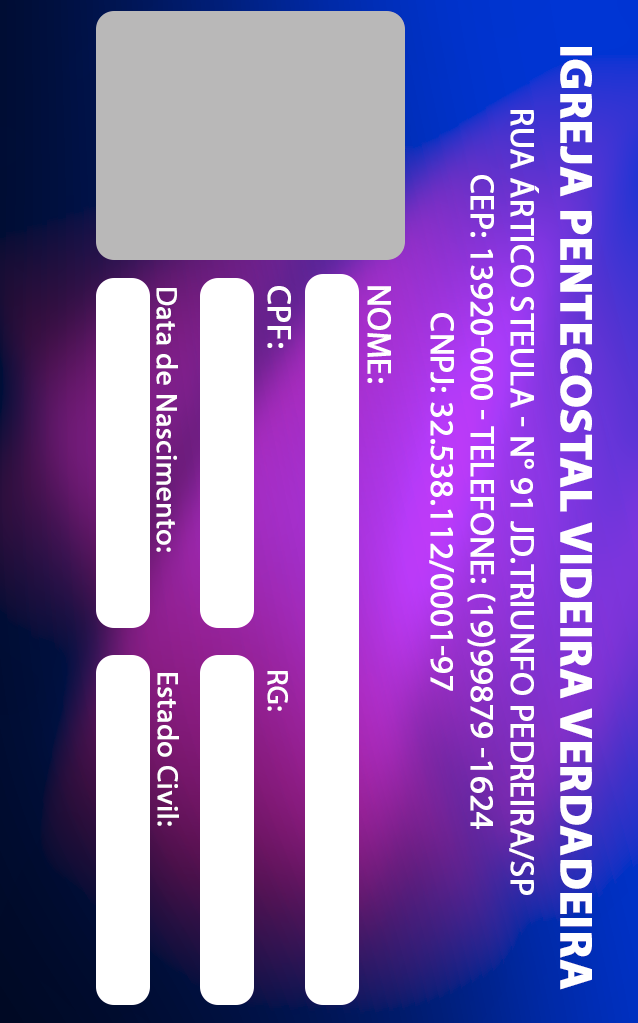
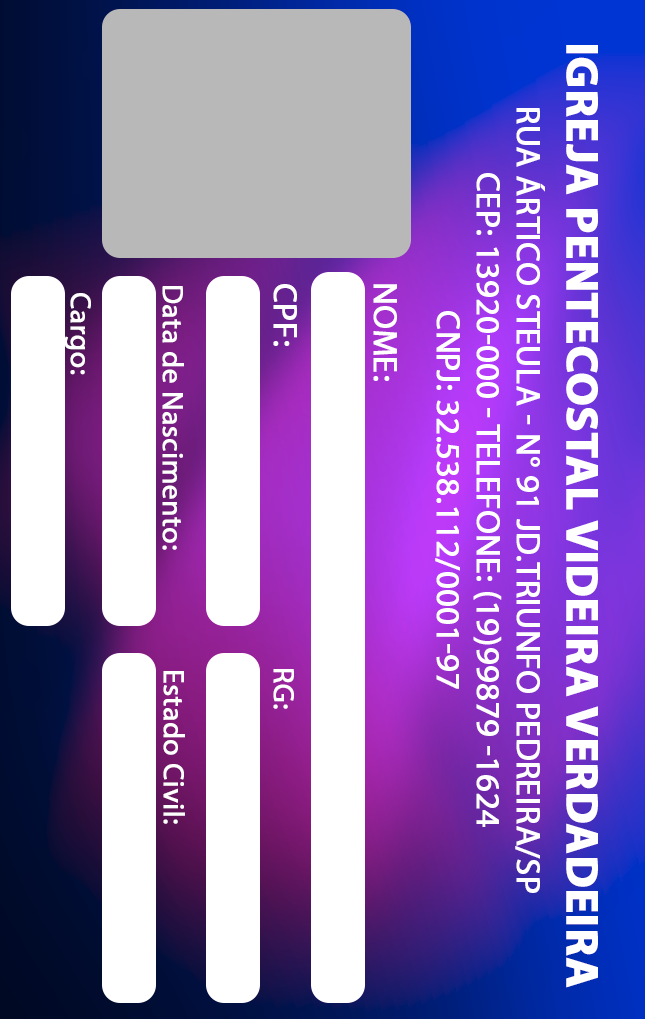
Fix Card

diff --git a/public/assets/css/cards/29-card_front.css b/public/assets/css/cards/29-card_front.css
@@ -73,6 +73,21 @@
   white-space: pre;
 }
 
+.element__tag6 {
+  position: absolute;
+  color: #000;
+  z-index: 2;
+  top: 192px;
+  left: -93px;
+  width: 210px;
+  text-align: left;
+  font-size: 13px;
+  font-family: Arial;
+  transform: rotate(90deg);
+  -ms-transform: rotate(90deg);
+  white-space: pre;
+}
+
 .element-avatar {
   position: absolute;
   z-index: 2;

diff --git a/resources/views/cards/components/card29__table.blade.php b/resources/views/cards/components/card29__table.blade.php
@@ -9,6 +9,7 @@
             <th>RG</th>
             <th>data de Nascimento</th>
             <th>Estado Civil</th>
+            <th>Cargo</th>
 
             <th>Ações</th>
         </tr>
@@ -25,6 +26,7 @@
             <td>{{ $D->front_input3 }}</td>
             <td>{{ $D->front_input4 }}</td>
             <td>{{ $D->front_input5 }}</td>
+            <td>{{ $D->front_input6 }}</td>
 
             <td nowrap="nowrap">
                 <form method="POST" action="{{ route('OrderDelelete') }}">

diff --git a/resources/views/cards/components/card29__front_modal.blade.php b/resources/views/cards/components/card29__front_modal.blade.php
@@ -56,4 +56,8 @@
     <div class="invalid-feedback">O campo <b>Estado Civil</b> é necessário.</div>
  </div>
  
-    
+ <div class="form-group">
+    <label>Cargo <span class="text-danger">*</span></label>
+    <input type="text" name="front-input-5" class="form-control" maxlength="50" required>
+    <div class="invalid-feedback">O campo <b>Cargo</b> é necessário.</div>
+ </div>
